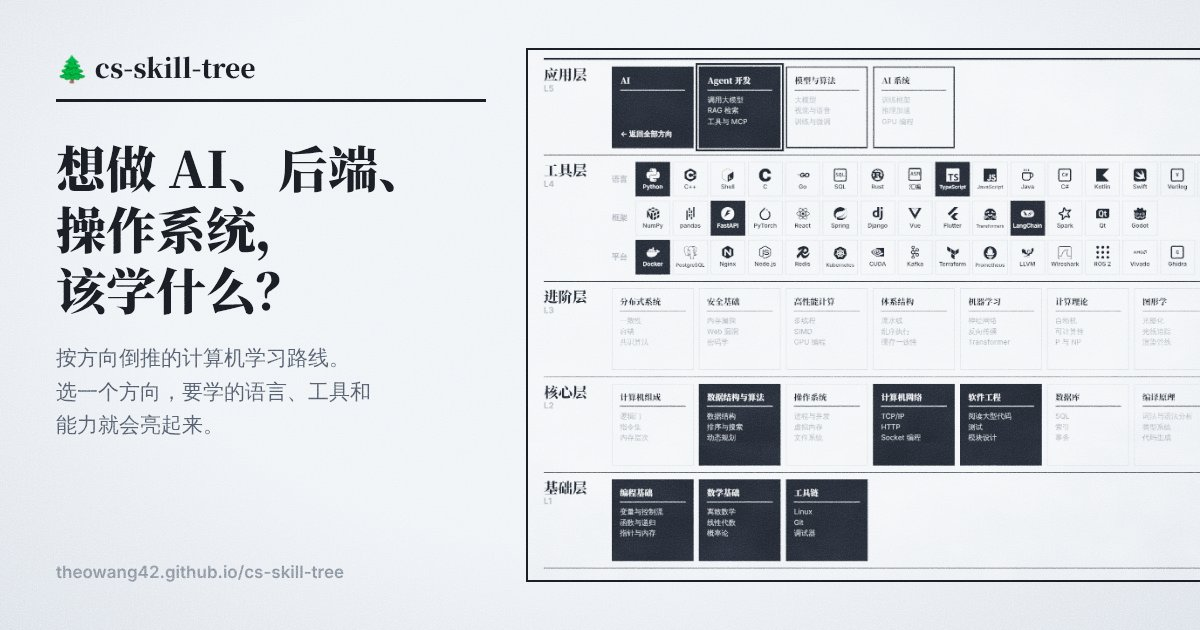
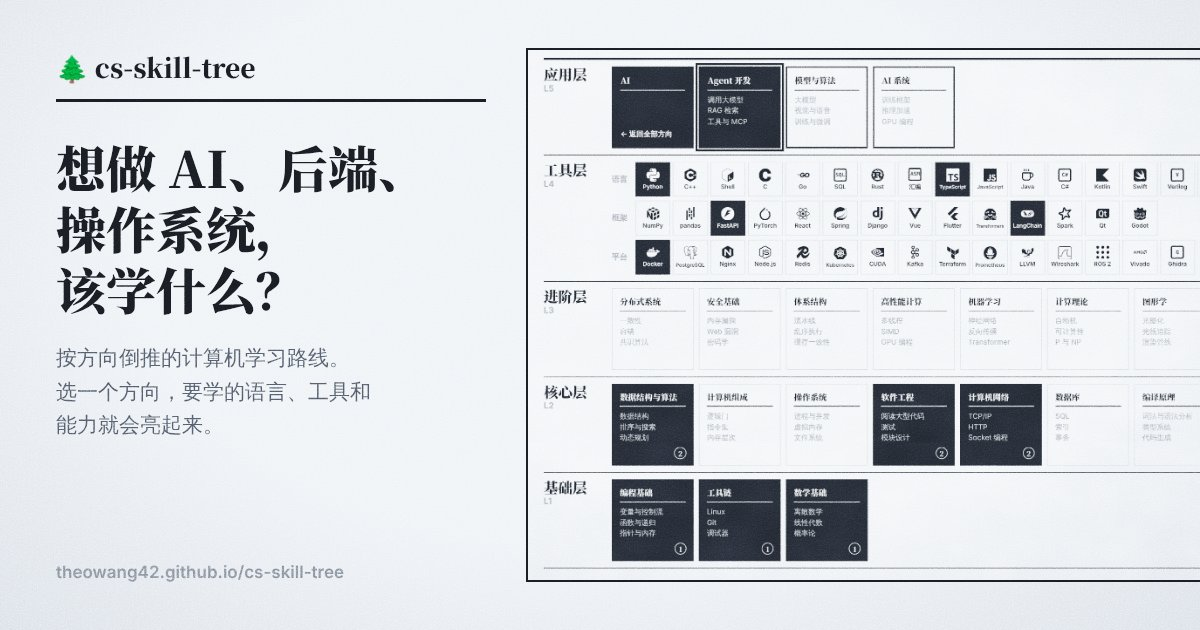
Tighten learning paths and show the order to learn them
Prerequisites now reflect what each path really needs: databases only
require DSA and distributed systems no longer require databases, so
data analysis, client and developer-tool paths stop pulling in
operating systems and computer organization. Missing pieces are added
(distributed systems for AI systems, databases for data analysis,
architecture for kernels, DSA and SWE for games) and every path
includes the toolchain.

Lit ability blocks show which step they belong to, computed from
dependency depth, and the detail panel lists the path step by step.

Claude-Session: https://claude.ai/code/session_01BR9ky9qSk1huWQ3kg6rSWt

diff --git a/src/data/roadmap.ts b/src/data/roadmap.ts
@@ -48,8 +48,8 @@ export const CATEGORIES: Category[] = [
     items: ['Agent 开发', '模型与算法', 'AI 系统'],
     subs: [
       { id: 'agent', name: 'Agent 开发', items: ['调用大模型', 'RAG 检索', '工具与 MCP'], requires: ['swe', 'network', 'dsa'], tools: ['python', 'typescript', 'langchain', 'fastapi', 'docker'] },
-      { id: 'ai-algo', name: '模型与算法', items: ['大模型', '视觉与语音', '训练与微调'], requires: ['ml'], tools: ['python', 'numpy', 'pandas', 'pytorch', 'transformers'] },
-      { id: 'ai-sys', name: 'AI 系统', items: ['训练框架', '推理加速', 'GPU 编程'], requires: ['ml', 'hpc', 'swe'], tools: ['python', 'cpp', 'cuda', 'pytorch', 'docker'] },
+      { id: 'ai-algo', name: '模型与算法', items: ['大模型', '视觉与语音', '训练与微调'], requires: ['ml', 'tooling'], tools: ['python', 'numpy', 'pandas', 'pytorch', 'transformers'] },
+      { id: 'ai-sys', name: 'AI 系统', items: ['训练框架', '推理加速', 'GPU 编程'], requires: ['ml', 'hpc', 'distributed', 'swe'], tools: ['python', 'cpp', 'cuda', 'pytorch', 'docker'] },
     ],
   },
   {
@@ -57,11 +57,11 @@ export const CATEGORIES: Category[] = [
     name: '应用',
     items: ['后端 · 前端', '客户端 · 游戏', '开发者工具'],
     subs: [
-      { id: 'backend', name: '后端开发', items: ['API 与业务逻辑', '数据库与缓存', '部署上线'], requires: ['database', 'network', 'swe'], tools: ['java', 'go', 'python', 'sql', 'spring', 'django', 'fastapi', 'postgres', 'redis', 'nginx', 'docker'] },
+      { id: 'backend', name: '后端开发', items: ['API 与业务逻辑', '数据库与缓存', '部署上线'], requires: ['database', 'network', 'os', 'swe'], tools: ['java', 'go', 'python', 'sql', 'spring', 'django', 'fastapi', 'postgres', 'redis', 'nginx', 'docker'] },
       { id: 'frontend', name: 'Web 前端', items: ['页面与交互', 'React / Vue', '前端工程化'], requires: ['swe', 'network', 'dsa'], tools: ['javascript', 'typescript', 'react', 'vue', 'nodejs'] },
-      { id: 'client', name: '客户端开发', items: ['iOS / 安卓', '桌面软件', '跨平台'], requires: ['swe', 'os'], tools: ['kotlin', 'swift', 'csharp', 'cpp', 'flutter', 'qt'] },
-      { id: 'game', name: '游戏与图形', items: ['游戏开发', '渲染引擎', '音视频'], requires: ['graphics', 'hpc'], tools: ['cpp', 'csharp', 'godot'] },
-      { id: 'devtools', name: '开发者工具', items: ['编辑器与插件', '构建与测试', '命令行工具'], requires: ['swe', 'compiler'], tools: ['typescript', 'rust', 'go', 'shell', 'nodejs'] },
+      { id: 'client', name: '客户端开发', items: ['iOS / 安卓', '桌面软件', '跨平台'], requires: ['swe', 'network', 'dsa'], tools: ['kotlin', 'swift', 'csharp', 'cpp', 'flutter', 'qt'] },
+      { id: 'game', name: '游戏与图形', items: ['游戏开发', '渲染引擎', '音视频'], requires: ['graphics', 'hpc', 'dsa', 'swe'], tools: ['cpp', 'csharp', 'godot'] },
+      { id: 'devtools', name: '开发者工具', items: ['编辑器与插件', '构建与测试', '命令行工具'], requires: ['swe', 'dsa'], tools: ['typescript', 'rust', 'go', 'shell', 'nodejs'] },
     ],
   },
   {
@@ -69,9 +69,9 @@ export const CATEGORIES: Category[] = [
     name: '基础设施与数据',
     items: ['云原生与运维', '数据分析', '大数据工程'],
     subs: [
-      { id: 'cloud', name: '云原生与运维', items: ['容器与 K8s', '监控与告警', '自动化运维'], requires: ['distributed', 'tooling'], tools: ['go', 'shell', 'docker', 'k8s', 'nginx', 'prometheus', 'terraform'] },
-      { id: 'datasci', name: '数据分析', items: ['数据清洗', '统计分析', '可视化'], requires: ['math', 'dsa'], tools: ['python', 'sql', 'numpy', 'pandas'] },
-      { id: 'bigdata', name: '大数据工程', items: ['批处理', '流处理', '数据仓库'], requires: ['database', 'distributed'], tools: ['java', 'python', 'sql', 'spark', 'kafka', 'postgres'] },
+      { id: 'cloud', name: '云原生与运维', items: ['容器与 K8s', '监控与告警', '自动化运维'], requires: ['distributed', 'swe'], tools: ['go', 'shell', 'docker', 'k8s', 'nginx', 'prometheus', 'terraform'] },
+      { id: 'datasci', name: '数据分析', items: ['数据清洗', '统计分析', '可视化'], requires: ['math', 'database', 'tooling'], tools: ['python', 'sql', 'numpy', 'pandas'] },
+      { id: 'bigdata', name: '大数据工程', items: ['批处理', '流处理', '数据仓库'], requires: ['database', 'distributed', 'swe'], tools: ['java', 'python', 'sql', 'spark', 'kafka', 'postgres'] },
     ],
   },
   {
@@ -79,9 +79,9 @@ export const CATEGORIES: Category[] = [
     name: '系统',
     items: ['操作系统内核', '数据库内核', '编译器'],
     subs: [
-      { id: 'kernel', name: '操作系统内核', items: ['内核与驱动', '虚拟化', '容器底层'], requires: ['os', 'tooling'], tools: ['c', 'rust', 'asm', 'shell'] },
-      { id: 'db-dev', name: '数据库内核', items: ['存储引擎', '查询优化', '分布式数据库'], requires: ['database', 'distributed'], tools: ['cpp', 'go', 'rust', 'sql', 'postgres'] },
-      { id: 'compiler-dev', name: '编译器与语言', items: ['编译器', '语言运行时', 'WebAssembly'], requires: ['compiler', 'architecture'], tools: ['cpp', 'rust', 'llvm', 'asm'] },
+      { id: 'kernel', name: '操作系统内核', items: ['内核与驱动', '虚拟化', '容器底层'], requires: ['os', 'architecture', 'dsa', 'tooling'], tools: ['c', 'rust', 'asm', 'shell'] },
+      { id: 'db-dev', name: '数据库内核', items: ['存储引擎', '查询优化', '分布式数据库'], requires: ['database', 'distributed', 'swe'], tools: ['cpp', 'go', 'rust', 'sql', 'postgres'] },
+      { id: 'compiler-dev', name: '编译器与语言', items: ['编译器', '语言运行时', 'WebAssembly'], requires: ['compiler', 'architecture', 'swe'], tools: ['cpp', 'rust', 'llvm', 'asm'] },
       { id: 'distro', name: 'Linux 发行版', items: ['打包与集成', '桌面环境', '配置与脚本'], requires: ['os', 'swe'], tools: ['shell', 'c', 'cpp', 'python'] },
     ],
   },
@@ -90,8 +90,8 @@ export const CATEGORIES: Category[] = [
     name: '安全',
     items: ['Web 与网络安全', '漏洞研究', '逆向工程'],
     subs: [
-      { id: 'websec', name: 'Web 与网络安全', items: ['渗透测试', 'Web 漏洞', '流量分析'], requires: ['security', 'database'], tools: ['python', 'javascript', 'sql', 'shell', 'wireshark'] },
-      { id: 'vuln', name: '漏洞研究与逆向', items: ['二进制漏洞', '逆向工程', '模糊测试'], requires: ['security', 'compiler'], tools: ['c', 'asm', 'python', 'ghidra'] },
+      { id: 'websec', name: 'Web 与网络安全', items: ['渗透测试', 'Web 漏洞', '流量分析'], requires: ['security', 'database', 'tooling'], tools: ['python', 'javascript', 'sql', 'shell', 'wireshark'] },
+      { id: 'vuln', name: '漏洞研究与逆向', items: ['二进制漏洞', '逆向工程', '模糊测试'], requires: ['security', 'compiler', 'tooling'], tools: ['c', 'asm', 'python', 'ghidra'] },
     ],
   },
   {
@@ -99,8 +99,8 @@ export const CATEGORIES: Category[] = [
     name: '硬件',
     items: ['嵌入式', '机器人', '芯片设计'],
     subs: [
-      { id: 'embedded', name: '嵌入式与机器人', items: ['单片机', '实时系统', '机器人'], requires: ['os'], tools: ['c', 'cpp', 'python', 'ros'] },
-      { id: 'chip', name: '芯片设计', items: ['数字电路', 'CPU 设计', 'FPGA'], requires: ['architecture'], tools: ['verilog', 'vivado', 'c', 'python'] },
+      { id: 'embedded', name: '嵌入式与机器人', items: ['单片机', '实时系统', '机器人'], requires: ['os', 'dsa', 'tooling'], tools: ['c', 'cpp', 'python', 'ros'] },
+      { id: 'chip', name: '芯片设计', items: ['数字电路', 'CPU 设计', 'FPGA'], requires: ['architecture', 'tooling'], tools: ['verilog', 'vivado', 'c', 'python'] },
     ],
   },
   {
@@ -108,9 +108,9 @@ export const CATEGORIES: Category[] = [
     name: '其他方向',
     items: ['区块链', '量子计算', '形式化验证'],
     subs: [
-      { id: 'blockchain', name: '区块链', items: ['智能合约', '共识协议', '链上应用'], requires: ['distributed', 'security'], tools: ['solidity', 'rust', 'go'] },
-      { id: 'quantum', name: '量子计算', items: ['量子比特', '量子算法', '量子编程'], requires: ['math', 'theory'], tools: ['python'] },
-      { id: 'formal', name: '形式化验证', items: ['定理证明', '模型检验', '程序验证'], requires: ['theory', 'compiler'], tools: [] },
+      { id: 'blockchain', name: '区块链', items: ['智能合约', '共识协议', '链上应用'], requires: ['distributed', 'security', 'tooling'], tools: ['solidity', 'rust', 'go'] },
+      { id: 'quantum', name: '量子计算', items: ['量子比特', '量子算法', '量子编程'], requires: ['math', 'theory', 'tooling'], tools: ['python'] },
+      { id: 'formal', name: '形式化验证', items: ['定理证明', '模型检验', '程序验证'], requires: ['theory', 'compiler', 'tooling'], tools: [] },
     ],
   },
 ]
@@ -187,10 +187,10 @@ export const LAYERS: { name: string; blocks: Block[] }[] = [
   {
     name: '进阶层',
     blocks: [
-      { id: 'distributed', name: '分布式系统', items: ['一致性', '容错', '共识算法'], requires: ['os', 'network', 'database'] },
+      { id: 'distributed', name: '分布式系统', items: ['一致性', '容错', '共识算法'], requires: ['os', 'network'] },
       { id: 'security', name: '安全基础', items: ['内存漏洞', 'Web 漏洞', '密码学'], requires: ['organization', 'os', 'network'] },
-      { id: 'hpc', name: '高性能计算', items: ['多线程', 'SIMD', 'GPU 编程'], requires: ['organization', 'os'] },
       { id: 'architecture', name: '体系结构', items: ['流水线', '乱序执行', '缓存一致性'], requires: ['organization'] },
+      { id: 'hpc', name: '高性能计算', items: ['多线程', 'SIMD', 'GPU 编程'], requires: ['organization', 'os'] },
       { id: 'ml', name: '机器学习', items: ['神经网络', '反向传播', 'Transformer'], requires: ['math', 'dsa'] },
       { id: 'theory', name: '计算理论', items: ['自动机', '可计算性', 'P 与 NP'], requires: ['math', 'dsa'] },
       { id: 'graphics', name: '图形学', items: ['光栅化', '光线追踪', '渲染管线'], requires: ['math', 'organization'] },
@@ -199,12 +199,12 @@ export const LAYERS: { name: string; blocks: Block[] }[] = [
   {
     name: '核心层',
     blocks: [
-      { id: 'organization', name: '计算机组成', items: ['逻辑门', '指令集', '内存层次'], requires: ['programming'] },
       { id: 'dsa', name: '数据结构与算法', items: ['数据结构', '排序与搜索', '动态规划'], requires: ['math', 'programming'] },
+      { id: 'organization', name: '计算机组成', items: ['逻辑门', '指令集', '内存层次'], requires: ['programming'] },
       { id: 'os', name: '操作系统', items: ['进程与并发', '虚拟内存', '文件系统'], requires: ['organization'] },
-      { id: 'network', name: '计算机网络', items: ['TCP/IP', 'HTTP', 'Socket 编程'], requires: ['programming'] },
       { id: 'swe', name: '软件工程', items: ['阅读大型代码', '测试', '模块设计'], requires: ['programming', 'tooling'] },
-      { id: 'database', name: '数据库', items: ['SQL', '索引', '事务'], requires: ['dsa', 'os'] },
+      { id: 'network', name: '计算机网络', items: ['TCP/IP', 'HTTP', 'Socket 编程'], requires: ['programming'] },
+      { id: 'database', name: '数据库', items: ['SQL', '索引', '事务'], requires: ['dsa'] },
       { id: 'compiler', name: '编译原理', items: ['词法与语法分析', '类型系统', '代码生成'], requires: ['dsa', 'organization'] },
     ],
   },
@@ -212,8 +212,8 @@ export const LAYERS: { name: string; blocks: Block[] }[] = [
     name: '基础层',
     blocks: [
       { id: 'programming', name: '编程基础', items: ['变量与控制流', '函数与递归', '指针与内存'], requires: [] },
-      { id: 'math', name: '数学基础', items: ['离散数学', '线性代数', '概率论'], requires: [] },
       { id: 'tooling', name: '工具链', items: ['Linux', 'Git', '调试器'], requires: [] },
+      { id: 'math', name: '数学基础', items: ['离散数学', '线性代数', '概率论'], requires: [] },
     ],
   },
 ]
@@ -231,4 +231,23 @@ export function closure(ids: string[]): Set<string> {
     stack.push(...(BLOCK_BY_ID.get(id)?.requires ?? []))
   }
   return seen
+}
+
+/**
+ * 学习顺序：一组能力块按依赖深度分步。
+ * 没有前置的是第 1 步，其余是“它最晚的前置那一步 + 1”。
+ */
+export function learningSteps(ids: string[]): Map<string, number> {
+  const all = closure(ids)
+  const step = new Map<string, number>()
+  const visit = (id: string): number => {
+    const known = step.get(id)
+    if (known) return known
+    const prereqs = (BLOCK_BY_ID.get(id)?.requires ?? []).filter((r) => all.has(r))
+    const n = prereqs.length ? Math.max(...prereqs.map(visit)) + 1 : 1
+    step.set(id, n)
+    return n
+  }
+  all.forEach(visit)
+  return step
 }

diff --git a/src/App.tsx b/src/App.tsx
@@ -1,5 +1,5 @@
 import { useState, type CSSProperties, type ReactNode } from 'react'
-import { CATEGORIES, LAYERS, SUBS, TOOL_GROUPS, closure } from './data/roadmap'
+import { CATEGORIES, LAYERS, SUBS, TOOL_GROUPS, closure, learningSteps } from './data/roadmap'
 import { BLOCK_DETAILS, CATEGORY_INTROS, SUB_DETAILS, TOOL_DETAILS, type Detail } from './data/details'
 import { ICONS, MONOGRAMS, STROKE_ICONS } from './data/icons'
 
@@ -120,6 +120,8 @@ export default function App() {
   const cat = CATEGORIES.find((c) => c.id === activeCat)
   const sub = SUBS.find((x) => x.id === activeSub)
   const litBlocks = closure(sub?.requires ?? [])
+  // 亮起的能力块上标出第几步学
+  const steps = learningSteps(sub?.requires ?? [])
   const litTools = new Set(sub?.tools ?? [])
 
   const cls = (kind: Kind, id: string, lit: boolean, extra = '') =>
@@ -199,6 +201,7 @@ export default function App() {
                   style={delay(i + 1, bi)}
                   onClick={() => setFocus({ kind: 'block', id: b.id })}
                 >
+                  {steps.has(b.id) && <span className="step">{steps.get(b.id)}</span>}
                   <strong>{b.name}</strong>
                   <Items items={b.items} />
                 </button>
@@ -278,14 +281,18 @@ function Panel({
 
   if (focus.kind === 'sub') {
     const x = SUBS.find((y) => y.id === focus.id)!
-    const blocks = closure(x.requires)
+    const st = learningSteps(x.requires)
+    const max = Math.max(...st.values())
     eyebrow = `应用层 · ${x.category.name}`
     title = x.name
     detail = SUB_DETAILS[x.id]
     labels = { includes: '具体做这些', links: '去看看真实的开源项目' }
     relations = [
       { label: '会用到的工具', chips: TOOLS.filter((t) => x.tools.includes(t.id)).map((t) => chip('tool', t.id, t.name)) },
-      { label: '需要先学会的能力', chips: BLOCKS.filter((b) => blocks.has(b.id)).map((b) => chip('block', b.id, b.name)) },
+      ...Array.from({ length: max }, (_, i) => ({
+        label: i === 0 ? `学习顺序 · 第 1 步` : `第 ${i + 1} 步`,
+        chips: BLOCKS.filter((b) => st.get(b.id) === i + 1).map((b) => chip('block', b.id, b.name)),
+      })),
     ]
   } else if (focus.kind === 'tool') {
     const t = TOOLS.find((x) => x.id === focus.id)!

diff --git a/src/styles.css b/src/styles.css
@@ -266,6 +266,35 @@ body::after {
   color: var(--muted);
 }
 
+/* 学习顺序：亮起的能力块右下角的步数 */
+.node {
+  position: relative;
+}
+
+.step {
+  position: absolute;
+  bottom: calc(var(--s) * 0.07);
+  right: calc(var(--s) * 0.08);
+  min-width: 18px;
+  height: 18px;
+  padding: 0 5px;
+  border: 1px solid currentColor;
+  border-radius: 9px;
+  font-family: var(--serif);
+  font-size: 11px;
+  font-weight: 900;
+  line-height: 16px;
+  text-align: center;
+  opacity: 0;
+  animation: step-in 0.3s ease-out var(--d, 0s) forwards;
+}
+
+@keyframes step-in {
+  to {
+    opacity: 0.85;
+  }
+}
+
 .node.on {
   /* 逐层点亮：亮起时按各自的延迟，熄灭时立即 */
   transition-delay: var(--d, 0s);
@@ -606,5 +635,9 @@ body::after {
   .spotlight .row,
   .row.subs .node {
     animation: none;
+  }
+  .step {
+    animation: none;
+    opacity: 0.85;
   }
 }
